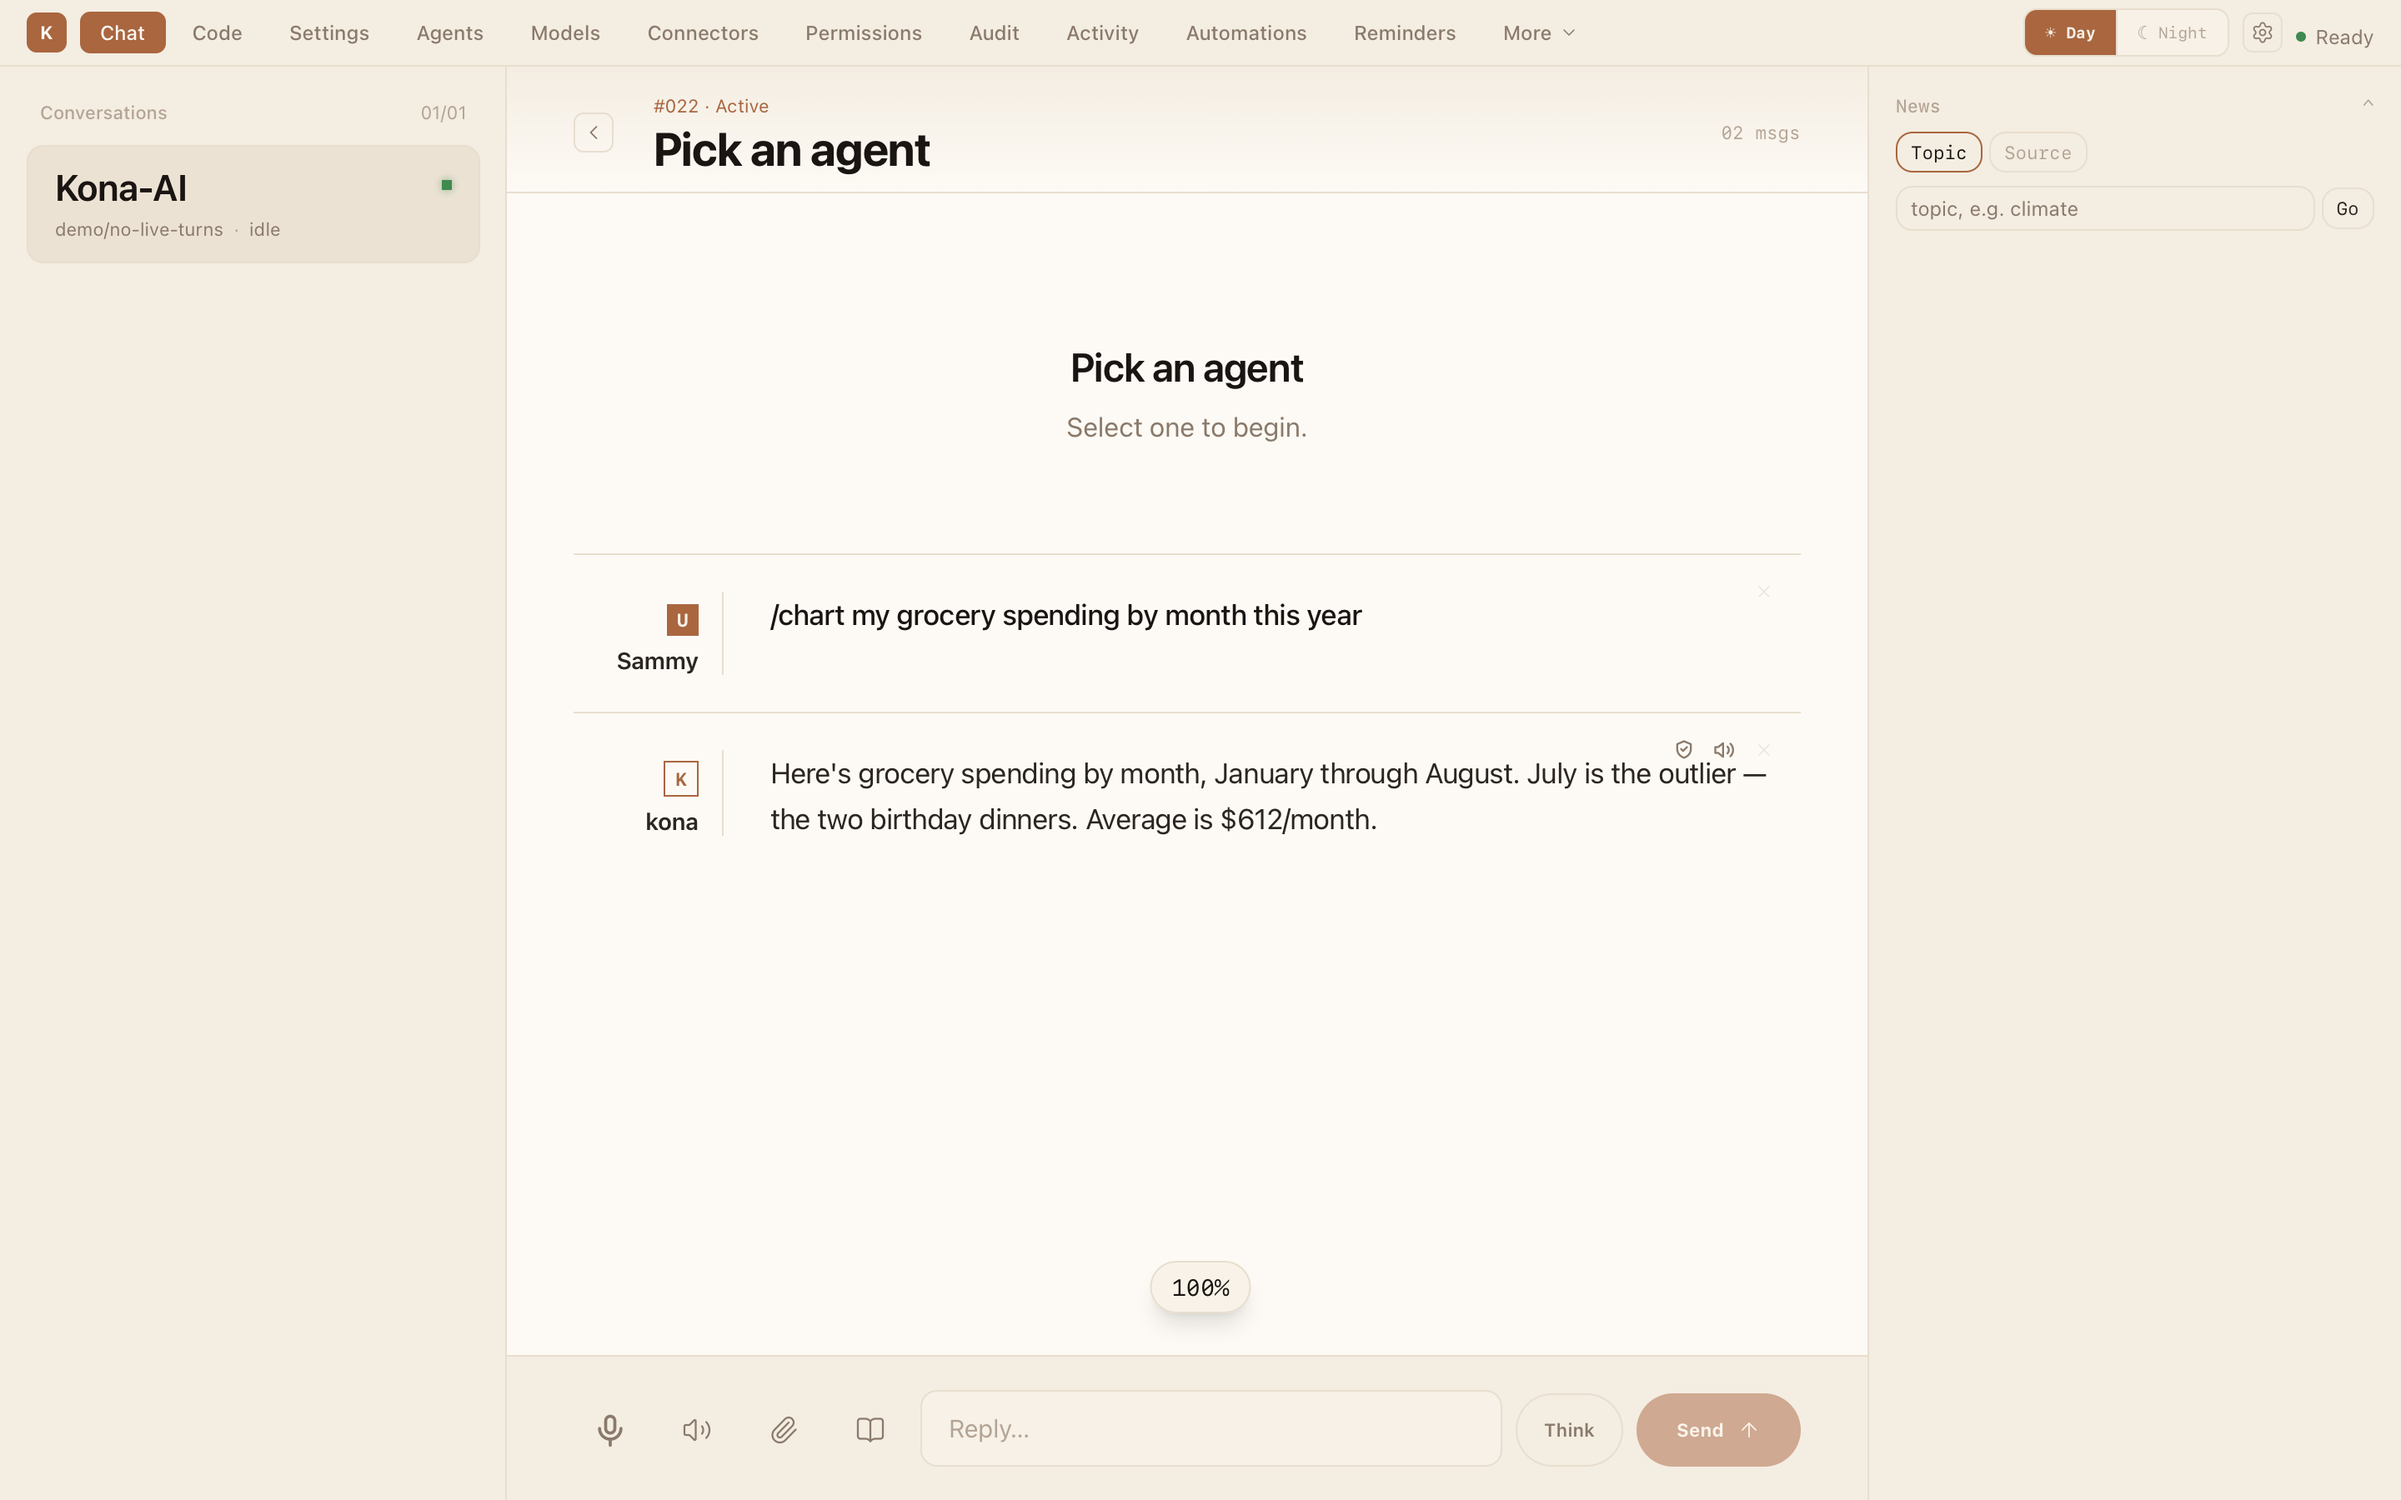
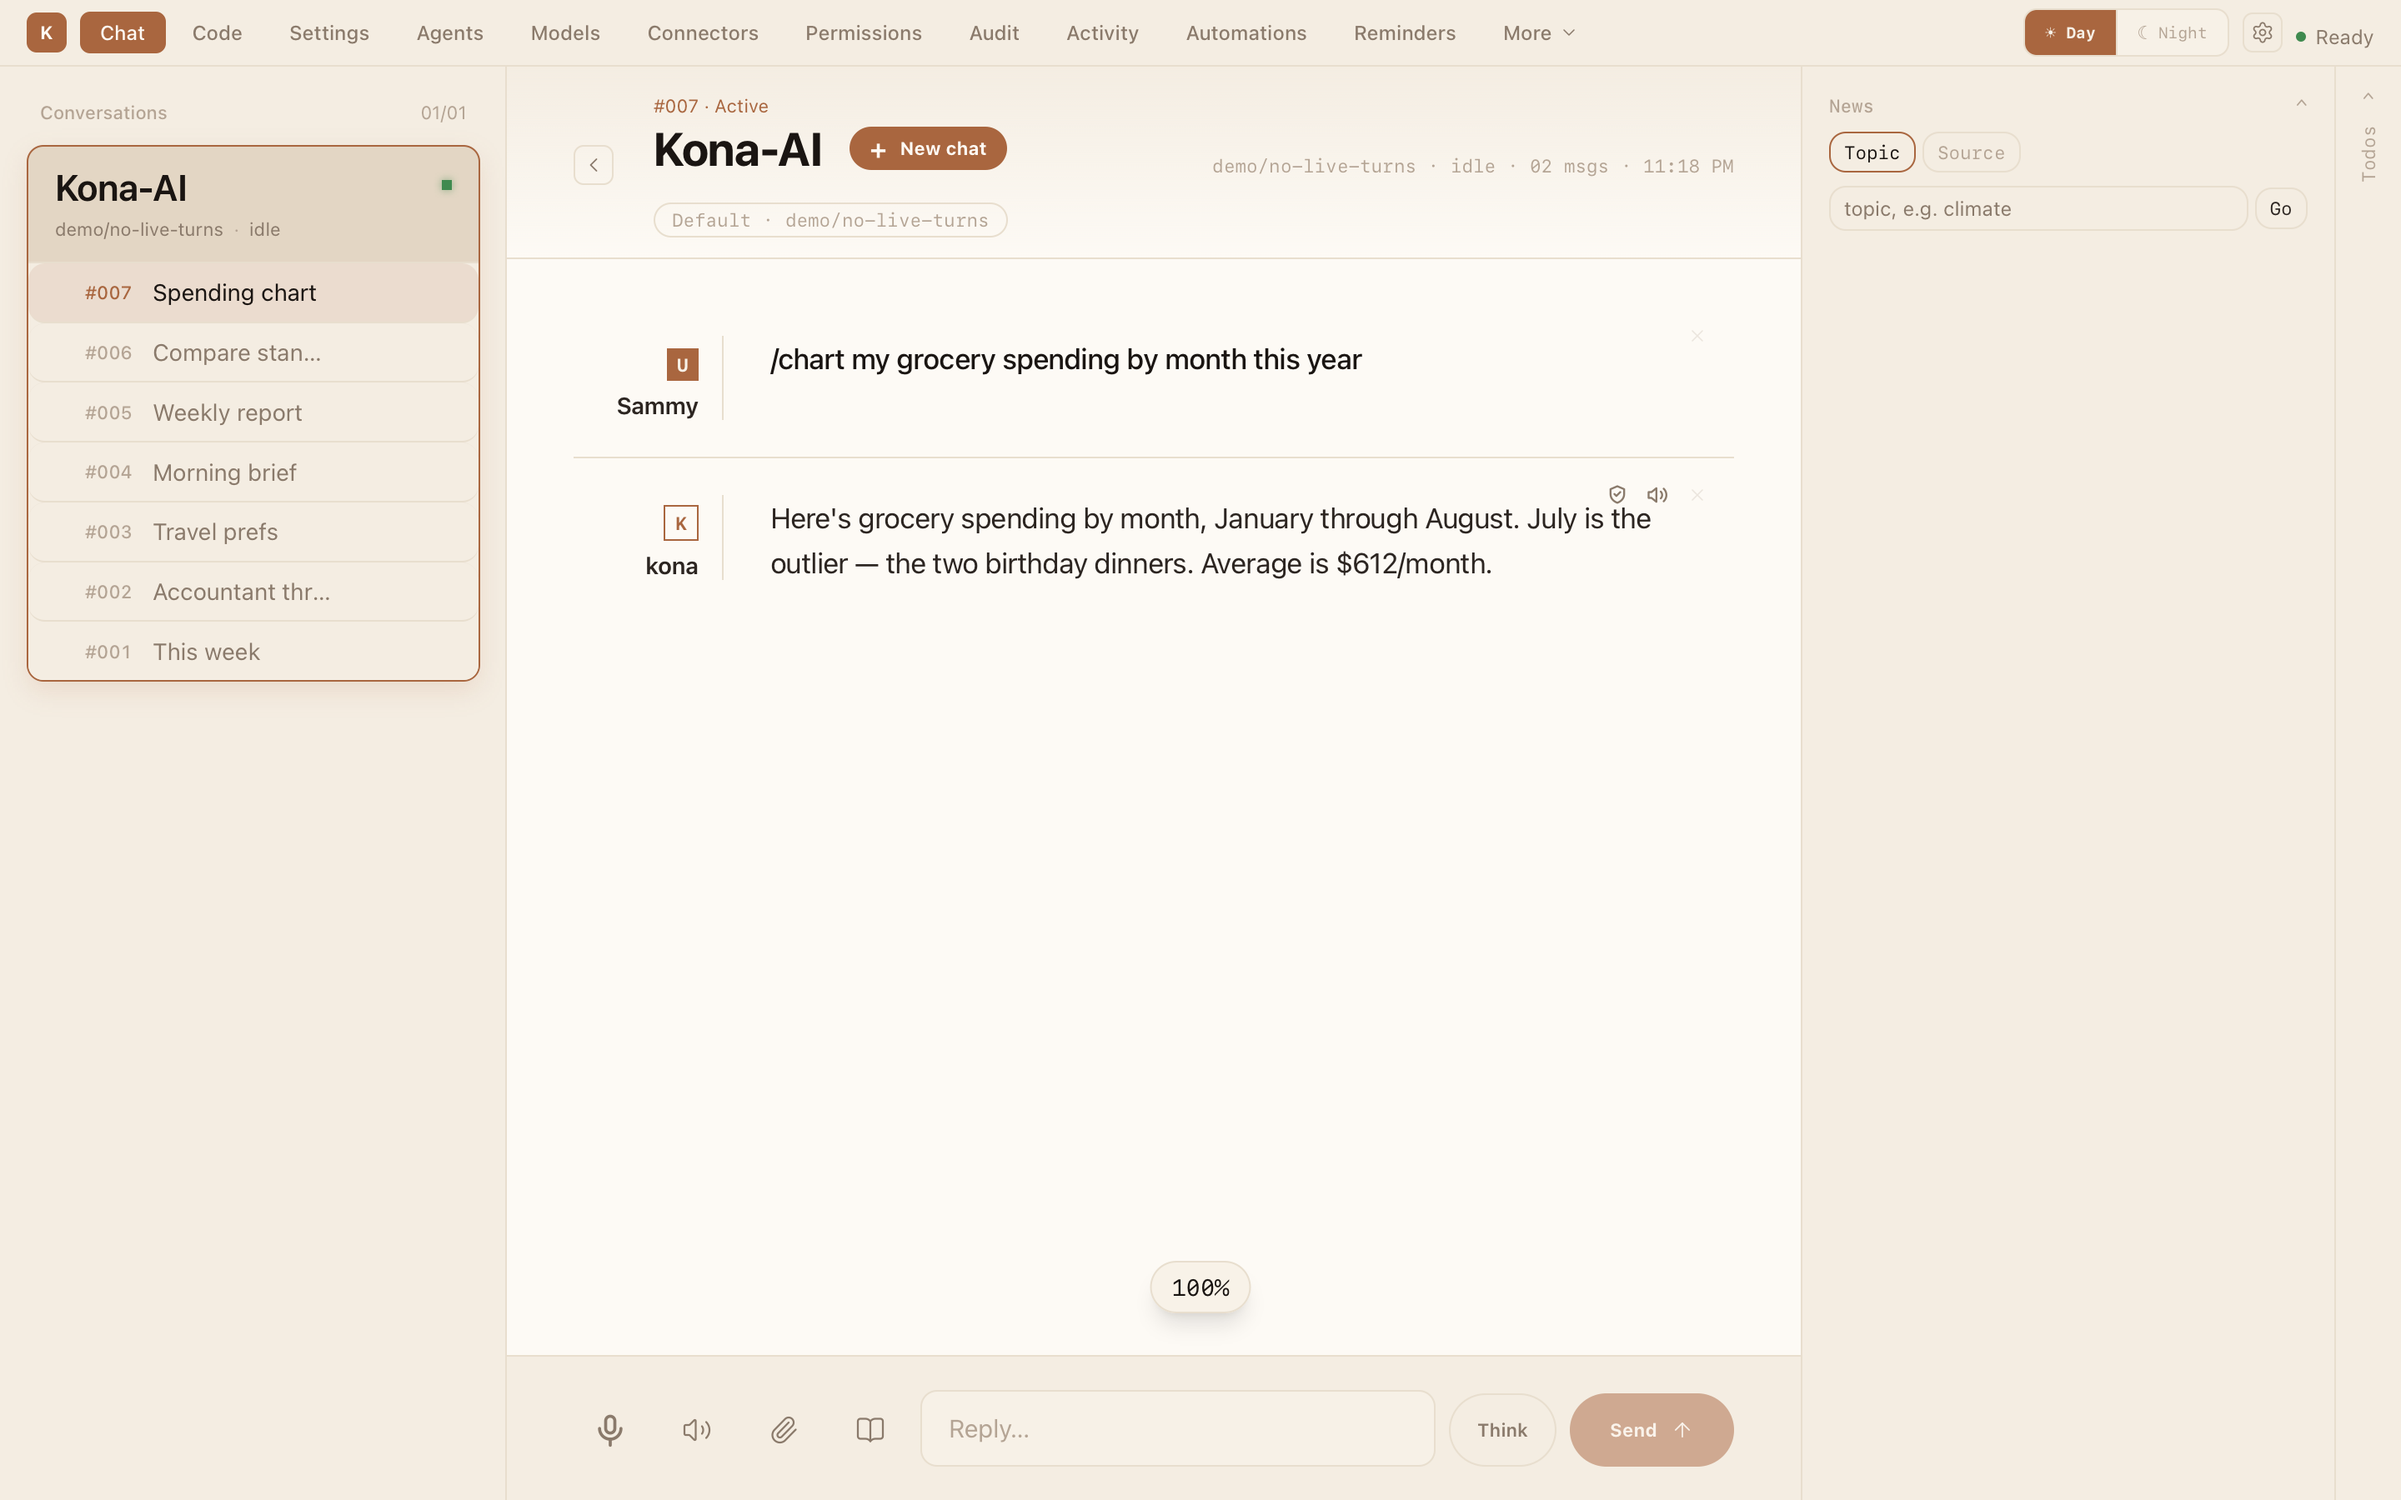
fix(shots): re-channel system triggers, demo chrome token, agent param on chat routes, sequence reset
Three review findings, all fixed:

- seed_triggers.py: system-owned rules (Agenda heartbeat, Daily brief)
  default delivery_channel to "telegram" — a v1.1 feature that showed up in
  automations.png. Added a patch() helper and a pass after the create loop
  that re-channels every telegram-delivered trigger to "dashboard" via
  PATCH /triggers/{id}.
- run.sh: kc_supervisor/chrome_token.py reads/writes the real
  ~/.konaclaw.env when KC_CHROME_TOKEN isn't already set, even under env -i.
  Added KC_CHROME_TOKEN=demo-not-a-real-token to the supervisor's env -i
  line so the demo boot never touches that file. Verified: its mtime and
  contents are unchanged by a full make shots run.
- capture.ts: chat routes lacked the `agent` query param the dashboard
  needs to render the transcript (Chat.tsx:149), so all seven chat-*.png
  showed a "Pick an agent / Select one to begin." empty state above the
  real content. routeFor() now returns `/chat?agent=Kona-AI&conv=<id>`.

Plus two small items: seed_demo.py resets the messages/conversations
sqlite_sequence counters so conversation ids restart at 1 on every reseed
instead of climbing forever; run.sh gained a one-line comment noting the
pipeline depends on the always-on local engine at :8901 for embeddings.

Re-ran make shots (one literal run), make build && make e2e (7/7), and
confirmed lsof -i :8766 -i :5173 is empty. automations.png now shows
"dashboard" on every row; all seven chat screenshots open straight into the
[…]

diff --git a/shots/capture.ts b/shots/capture.ts
@@ -13,7 +13,7 @@ function routeFor(s: Shot) {
   if (s.route) return s.route;
   const f = join(DEMO, "data", `conv_${s.conv}.id`);
   if (!existsSync(f)) throw new Error(`missing ${f} — run shots/seed_demo.py first`);
-  return `/chat?conv=${readFileSync(f, "utf8").trim()}`;
+  return `/chat?agent=Kona-AI&conv=${readFileSync(f, "utf8").trim()}`;
 }
 
 const browser = await webkit.launch();

diff --git a/shots/seed_triggers.py b/shots/seed_triggers.py
@@ -24,9 +24,23 @@ def post(path, body):
     req = urllib.request.Request(BASE + path, data=json.dumps(body).encode(), headers={"Content-Type": "application/json"}, method="POST")
     with urllib.request.urlopen(req, timeout=5) as r: return json.load(r)
 
+def patch(path, body):
+    req = urllib.request.Request(BASE + path, data=json.dumps(body).encode(), headers={"Content-Type": "application/json"}, method="PATCH")
+    with urllib.request.urlopen(req, timeout=5) as r: return json.load(r)
+
 resp = get("/triggers")
 rows = resp if isinstance(resp, list) else resp.get("triggers", [])
 existing = {t["name"] for t in rows}
 for r in RULES:
     if r["name"] in existing: continue
     post("/triggers", r); print("created", r["name"])
+
+# System-owned rules (agenda heartbeat, daily brief) default to the telegram
+# channel, a v1.1 feature that must never appear in a screenshot: point them
+# at the dashboard.
+resp = get("/triggers")
+rows = resp if isinstance(resp, list) else resp.get("triggers", [])
+for t in rows:
+    if t.get("delivery_channel") == "telegram":
+        patch(f"/triggers/{t['id']}", {"delivery_channel": "dashboard"})
+        print("re-channelled", t["name"])

diff --git a/shots/seed_demo.py b/shots/seed_demo.py
@@ -76,6 +76,7 @@ def main():
         f"name: {AGENT}\nmodel: demo/no-live-turns\nsystem_prompt: |\n  You are Kona, a personal assistant. (Demo profile; no live turns are run.)\n")
     con = sqlite3.connect(HOME / "data" / "konaclaw.db"); con.executescript(DDL)
     con.execute("DELETE FROM messages"); con.execute("DELETE FROM conversations")
+    con.execute("DELETE FROM sqlite_sequence WHERE name IN ('messages', 'conversations')")
     for f in (HOME / "data").glob("conv_*.id"): f.unlink()
     t0 = time.time() - 6 * 86400
     for i, (key, (title, msgs)) in enumerate(TRANSCRIPTS.items()):
